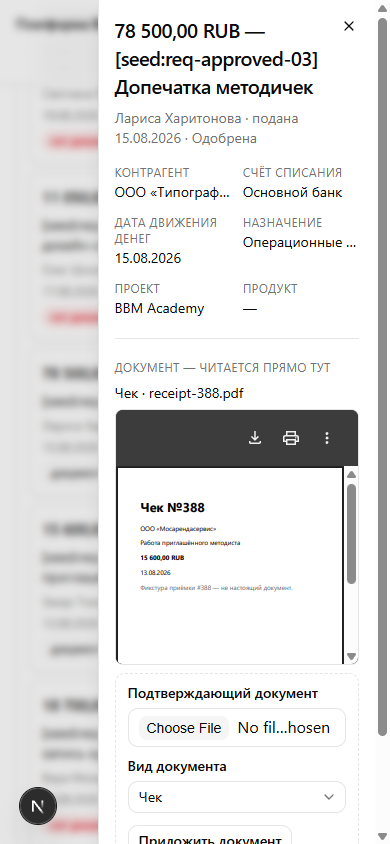
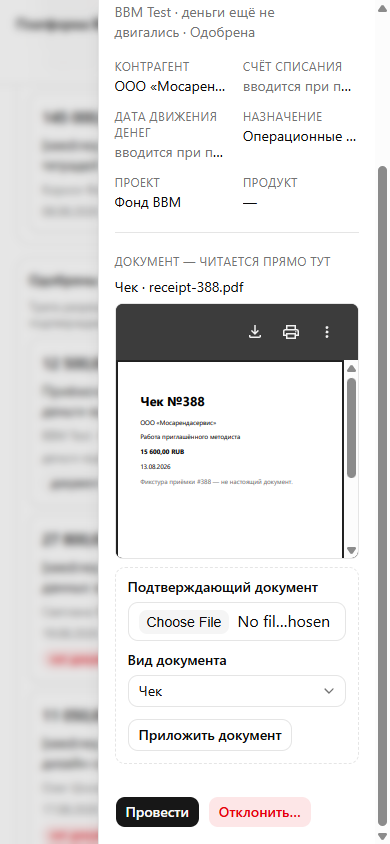
docs(evidence): re-drive #388 after «заявка — это намерение» (steps 05/06/09/18-22 + 23-31)
The stage-5 journey run again at head 2860b42, where the paying account and the
money date left the request and became the posting act's own questions (owner
ruling, Антон, 2026-09-03). Eight frames of the old pass showed a picture the
ruling made false; each is RE-TAKEN under its own filename, and eight new states
carry the half of the story that did not exist before.

Driven end to end through Playwright as bbm-test on the live worktree stand:
file a pre-spend request with «Уже потрачено» unticked (no account, no date),
see it on the board and in its sheet saying «вводится при проведении» instead of
«—», approve it, attach the receipt, open «Провести», be refused for the two
facts it does not have, fill them, post, and read the request back with the
account and the date the ACT supplied.

One defect found and recorded in the README rather than pictured: a purpose whose
product binding is `required` on a project with no products leaves «Подать
заявку» silently inert — the demanded field is not rendered, so its message has
nowhere to land.

Claude-Session: https://claude.ai/code/session_01WUHQDUTTGyy58FHeUVr1AP

diff --git a/docs/evidence/388/README.md b/docs/evidence/388/README.md
@@ -1,30 +1,32 @@
 # #388 — the expense-request board `/p/finance/requests`, stage-5 eyes-on matrix
 
 The acceptance journey of [`.claude/skills/task-cycle/SKILL.md`](../../../.claude/skills/task-cycle/SKILL.md)
-stage 5, points 2–3, run against PR #470 after the load crash was fixed
+stage 5, points 2–3, run against PR #470. The folder holds TWO passes: the first
+one (steps 01–22) was taken at `52ba515`, after the load crash was fixed
 (`1cf0226` — the board reads the snapshot from `query.data`, not from
-`useCustom`'s always-truthy `result.data`). The previous run of this same
-journey never reached the board at all; every state below is now reachable.
+`useCustom`'s always-truthy `result.data`); the second one re-drove the surface
+at head **`2860b42`**, where the owner ruling «заявка — это намерение, а не
+платёж» (Антон, 2026-09-03, [#388 comment](https://github.com/bbm-academy-org/bbm-portal/issues/388#issuecomment-5526308133))
+took the paying account and the money date OUT of the request and INTO the
+posting act. Every step whose picture that ruling changed was RE-TAKEN under its
+own filename (05, 06, 09, 18, 19, 20, 21, 22) and eight new states were added
+(23–31).
 
 **The stand.** `http://localhost:3000`, the lead's listener from
-`.claude/worktrees/388` on `feat/388-requests-board-blocks` @ `52ba515`; data
-from that worktree's own branch DB `platform_388`. The fixture is `pnpm dev:seed`
-(64 people in `core.member`, 42 intake rows — 9 submitted, 5 approved, 6 posted
-with documents, 4 refused, 3 cancelled, 15 drafts — the approved-without-document
-rows being the EARS-506/511 gate fixture) plus `pnpm platform:member:seed` for the
-two dev IdP logins, plus the three acts below driven through the UI. After those
-acts the board reads 7 «Ждут» / 5 «Одобрены — ждут документа» / 7 «Проведены» /
-5 «Отклонены» — every column populated. Driven
-with `@playwright/test` from the worktree, signed in through the real dev
-Zitadel as `bbm-test` (the approver, `finance-approve` + `finance-entry`) and as
-`bbm-member` (a plain `platform-user`); the password was read from a scratchpad
-file by the script through `fs` and never entered a tool call.
+`.claude/worktrees/388` on `feat/388-requests-board-blocks`; data from that
+worktree's own branch DB `platform_388` (migration `0015_finance_intake_money_facts`
+applied). The fixture is `pnpm dev:seed` (64 people in `core.member`, 42 intake
+rows) plus `pnpm platform:member:seed` for the two dev IdP logins, plus the acts
+each pass drove through the UI. Driven with `@playwright/test` from the worktree,
+signed in through the real dev Zitadel as `bbm-test` (`finance-approve` +
+`finance-entry`); the password was read from a scratchpad file by the script
+through `fs` and never entered a tool call.
 
-**The matrix.** 15 driven states × 2 breakpoints (desktop 1440×900, mobile
+**The matrix.** Every driven state × 2 breakpoints (desktop 1440×900, mobile
 390×844) × 2 themes (light, and dark through the theme's own `.dark` class — the
-workspace ships no user-facing switch) = 60 frames, plus the primary control
-under three CDP-forced pseudo-states, plus the outcome of each act the seed
-allows.
+workspace ships no user-facing switch), plus the primary control of each form
+under three CDP-forced pseudo-states (`CSS.forcePseudoState`, one session per
+state), never hoped for from a pointer.
 
 | Step | What it shows                                                                                             |
 | ---- | --------------------------------------------------------------------------------------------------------- |
@@ -36,7 +38,7 @@ allows.
 | 06   | an APPROVED request with no document: no «Провести» at all, the gate Alert, and the attach form           |
 | 07   | the refusal dialog — a reason is mandatory (EARS-512), so it is a modal and not a field beside «Одобрить» |
 | 08   | the same dialog submitted empty — «Укажите причину отказа.» under the field                               |
-| 09   | «Новая заявка» submitted empty — five messages, each under the field that is wrong, never a summary       |
+| 09   | «Новая заявка» submitted empty — FOUR messages, each under its own field; no money-date message any more  |
 | 10   | an ILLEGAL drag (a submitted card dropped on «Проведены») — nothing moves, the toast says why             |
 | 11   | a MUTATION FAILURE (the act route forced to 500) — the error toast, and the sheet deliberately stays open |
 | 12   | the loading skeleton, caught with the snapshot request held open — four column blocks, no layout jump     |
@@ -45,58 +47,96 @@ allows.
 | 15   | after «Одобрить» — the success toast and the card now in «Одобрены — ждут документа»                      |
 | 17   | after a refusal with a reason — the card in «Отклонены», carrying the reason and the decider              |
 | 18   | after «Приложить документ» — the sheet STAYS open, the PDF reads inline, «Провести» is now one click away |
-| 19   | after «Провести» — both toasts, and the card in «Проведены»                                               |
-| 20   | a posted request — the ledger operation and its postings instead of controls                              |
+| 19   | after «Провести» — the toast «Операция проведена» and the card in «Проведены» with its ledger date        |
+| 20   | a SEEDED posted request — the ledger operation and its postings instead of controls                       |
 | 21   | «Новая заявка» with a real purpose — the card lands in «Ждут» and the toast says exactly that             |
 | 22   | the proposal branch («Нет подходящего — предложу новое») — saved as a DRAFT, toast points at «Мои заявки» |
+| 23   | the form with «Уже потрачено» UNCHECKED — no account, no date, and the form says who fills them in        |
+| 24   | the same form with «Уже потрачено» TICKED — own-funds, «Счёт списания» and «Дата движения денег» revealed |
+| 25   | the board carrying pre-spend cards: no date, no «уже потрачено» flag, the words «деньги ещё не двигались» |
+| 26   | the pre-spend request's sheet — «вводится при проведении» in BOTH money fields, never «—»                 |
+| 27   | «Провести» → the posting act's own dialog, empty: the account and the date it is about to assert          |
+| 28   | the same dialog submitted empty — both refusals under their own field                                     |
+| 29   | the dialog filled — «Банк RUB» and 2026-09-03, the act ready to run                                       |
+| 30   | the SAME request after the act — «Счёт списания: Банк RUB», «Дата движения денег: 03.09.2026», operation  |
+| 31   | the posting dialog's «Провести» under CDP-FORCED `:hover`, `:focus-visible` and `:active` (desktop, both) |
 
-Steps 14 are set through one `CSS.forcePseudoState` CDP session per state on the
-located element, never hoped for from a pointer.
+Steps 14 and 31 are set through one `CSS.forcePseudoState` CDP session per state
+on the located element, never hoped for from a pointer.
+
+**The journey the second pass drove**, in order, as one member-then-finance
+story: file a pre-spend request (23 → 24 → 09 → 21), see it on the board and in
+its sheet with no money facts (25, 26), file the proposal branch as a draft (22),
+approve it, attach the receipt (18), open the posting dialog and be refused for
+the facts it does not have (27, 28), fill them (29, 31), post (19), and read the
+posted request back with the account and the date the ACT — not the request —
+supplied (30). Steps 05, 06 and 20 were re-taken on seeded rows (#8 submitted,
+#15 approved-without-document, #14 posted) because the sheet's field block
+changed shape.
 
 **DoD check (stage 5 point 5).** Every kept frame was reviewed. None is red,
 error-stuck or skeleton-stuck; the only skeleton in the folder is step 12, where
-it is the state being accepted. Four honest artefacts, each re-observed live
+it is the state being accepted. The honest artefacts, each re-observed live
 before being written down:
 
 - **Modal states are captured at the viewport, not full-page.** A sheet/dialog is
   `position: fixed`, so a full-page frame of one shows the overlay ending at the
   first viewport and the board unobscured below — a capture artefact, not the
-  screen. Steps 05–09, 11, 18 and 20 are therefore viewport frames.
-- **Step 19's frame shows the top bar twice.** It is sticky, and a full-page
-  capture paints it at its scroll position as well. Nothing is duplicated on
-  screen.
-- **The inline PDF pane needs a real browser.** In HEADLESS Chromium the
-  `<object type="application/pdf">` falls back to its download link and leaves a
-  blank box; step 18 was therefore re-captured HEADED, where the receipt renders
-  in place as the section promises.
-- **Steps 15/17/19 exist at desktop-light only.** Each is the outcome of a
-  one-way transition on the fixture — a request can only be approved, refused or
-  posted once — so the same act cannot be replayed per breakpoint. The states
-  those acts LEAVE BEHIND (18, 20) are captured at all four combinations.
+  screen. Steps 05–09, 11, 18, 20, 23, 24, 26–31 are therefore viewport frames.
+- **A sheet taller than the viewport is SCROLLED to the part being accepted**
+  before the shutter: 23 and 24 to «Как оплачено» (that section IS the state),
+  05/06/18/20 to the document block and the footer, 26/30 to the field grid.
+  Nothing is cropped away that the state depends on; the sheet scrolls on the
+  real screen exactly the same way.
+- **Step 19's frame is full-page.** The board is longer than 900 px, and the act's
+  outcome is a card that moved between two columns.
+- **The inline PDF pane needs a real browser AND a moment.** In HEADLESS Chromium
+  the `<object type="application/pdf">` falls back to its download link; this pass
+  ran HEADED throughout. The first take of step 20 still showed an EMPTY pane —
+  the shutter beat the plugin by ~700 ms. Re-observed live with a 3.5 s settle and
+  the receipt renders in place, which is the frame kept. It is a capture artefact,
+  not a product defect: the same document renders in 18 and 30.
+- **Step 19 exists at desktop-light only.** Posting is a one-way transition on the
+  fixture — a request posts once — so the act cannot be replayed per breakpoint.
+  The state it LEAVES BEHIND (30) is captured at all four combinations.
+- **At 390 px the two-column field grid truncates its values** («вводится при
+  п…», «ООО «Мосарен…»). It is the `truncate` rule doing its job in a 2-column
+  grid on a narrow sheet, and it is visible in 18/26/30-mobile — recorded here so
+  the frames are not read as a rendering failure.
 
 **Rows this run changed in `platform_388`** (recorded so the next reader is not
-surprised): request #6 approved, #7 refused with a reason, #14 given a PDF and
-then posted (+1 document, +1 ledger operation #12), and `core.member` gained the
-two dev IdP logins. That last one is NOT cosmetic: `pnpm dev:seed` seeds a
-registry of 64 people that does not include `bbm-test@bbm.local`, and without a
-`core.member` row every write act on this board is refused — the acts above only
-became reachable after `pnpm platform:member:seed` with a two-line dataset naming
-`bbm-test@bbm.local` and `bbm-member@bbm.local`.
+surprised). The second pass filed 10 requests through the form — five pre-spend
+intents (one per capture combo plus a first take) and five proposal drafts — and
+drove one of them, **#65**, end to end: approved, given `receipt-388.pdf`, and
+posted with «Банк RUB» / 2026-09-03 (ledger operation #13). Nothing was deleted
+afterwards and nothing was hand-edited in the DB: the board now reads 11 «Ждут» /
+5 «Одобрены — ждут документа» / 8 «Проведены» / 5 «Отклонены», with 13 rows
+carrying no money date at all. The first pass's own acts (#6 approved, #7 refused,
+#14 given a document and posted) are still there. `core.member` carries the two
+dev IdP logins from `pnpm platform:member:seed` — without a `core.member` row
+every write act on this board is refused, and `pnpm dev:seed`'s registry of 64
+people does not include `bbm-test@bbm.local`.
 
-The requests steps 21/22 filed themselves (four «Приёмочный прогон #388» cards and
-four proposal drafts) were DELETED from `platform_388` after the capture, so the
-live stand carries the seed fixture plus the three acts above and nothing else;
-the frames are the record of that moment, not of the current row count.
-
-**The «1 Issue» badge in the earlier frames was the harness, not the app.** Next's
-dev overlay counted one console error: a React hydration mismatch on
-`<html lang="ru">` (`src/app/(platform)/layout.tsx:42`) whose only differing
-attribute is `style={{color-scheme:…}}` — the value the capture script itself
-writes onto `document.documentElement` to force the theme. A plain load of the
-board, and a load with the «Новая заявка» sheet open, raise no issue at all. The
-kept frames hide the dev-only overlay so it cannot be misread as a product error.
+**A defect this pass found and did NOT promote a frame for.** «Новая заявка» can
+dead-end silently: pick a purpose whose `product_binding` is `required`
+(«Продажи курса», «Партнёрская программа», «Продажи встреч BBM») together with a
+project that has no products («Фонд BBM»), and the «Продукт» select is not
+rendered at all (`productOptions` is empty) while the schema still demands
+`productId`. «Подать заявку» then does nothing, forever, with no message anywhere
+on the form — the failing field has no `<FormMessage>` on screen to land in. It
+reproduces on every combination of those three purposes with «Фонд BBM», and it
+is not new to the money-facts revision. The capture used «Операционные расходы»
+(`forbidden`) so the journey could proceed.
 
 **The journey scripts are not committed** — they were bound to this seed dataset
 and deleted with the run, the same call #434 and #437 made; `DEBT.md` already
 tracks that every task re-implements this harness
 (`2026-09-03-437-journey-harness`).
+
+**The «1 Issue» badge in the earliest frames was the harness, not the app.** Next's
+dev overlay counted one console error: a React hydration mismatch on
+`<html lang="ru">` (`src/app/(platform)/layout.tsx:42`) whose only differing
+attribute is `style={{color-scheme:…}}` — the value the capture script itself
+writes onto `document.documentElement` to force the theme. A plain load of the
+board raises no issue at all. Every frame hides the dev-only overlay so it cannot
+be misread as a product error.
